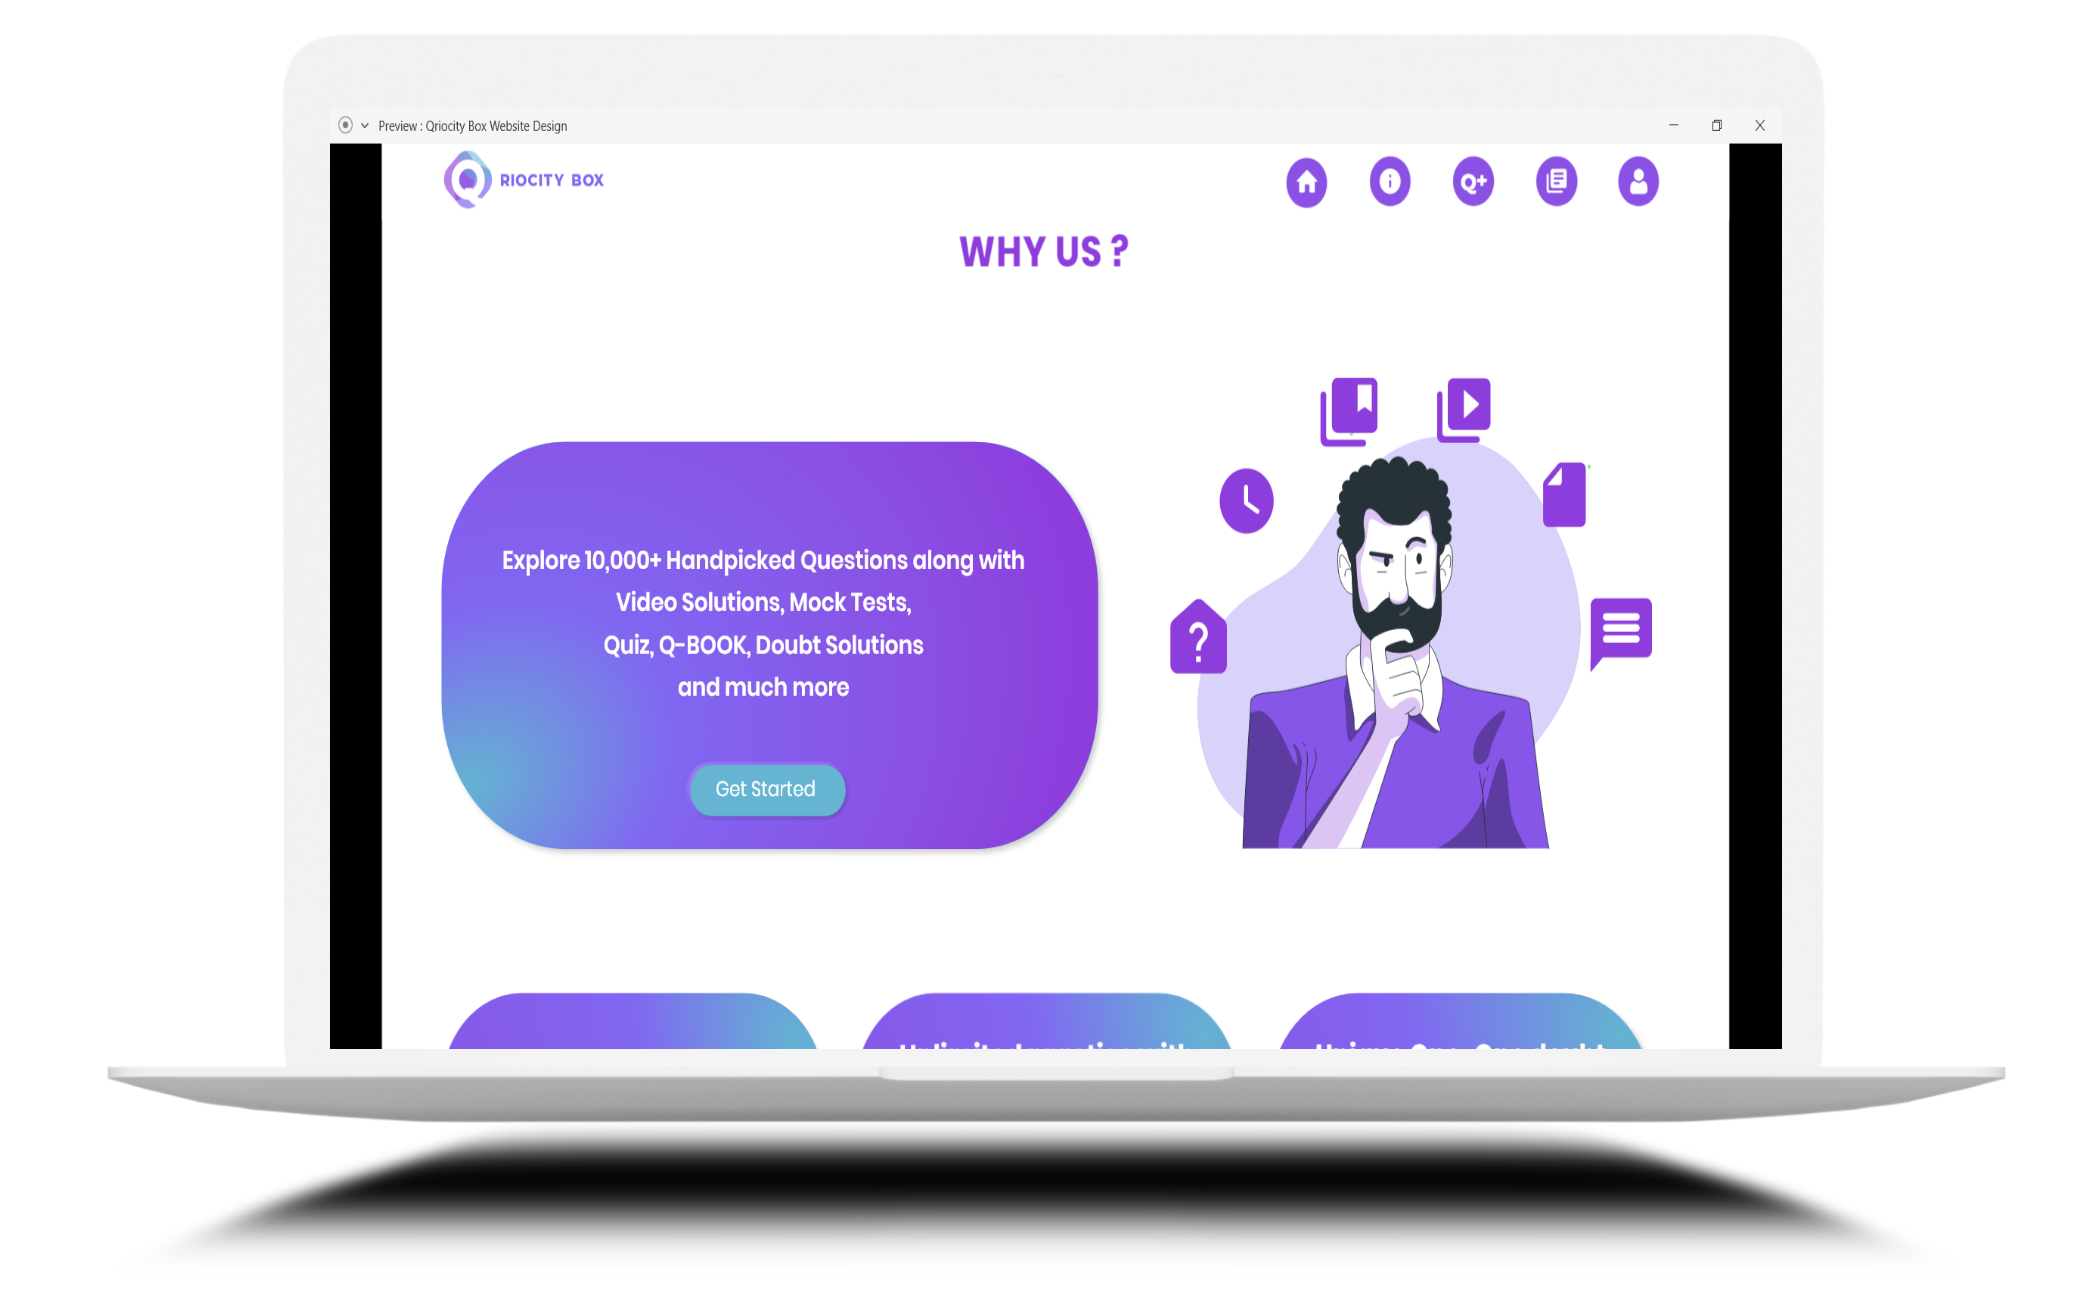
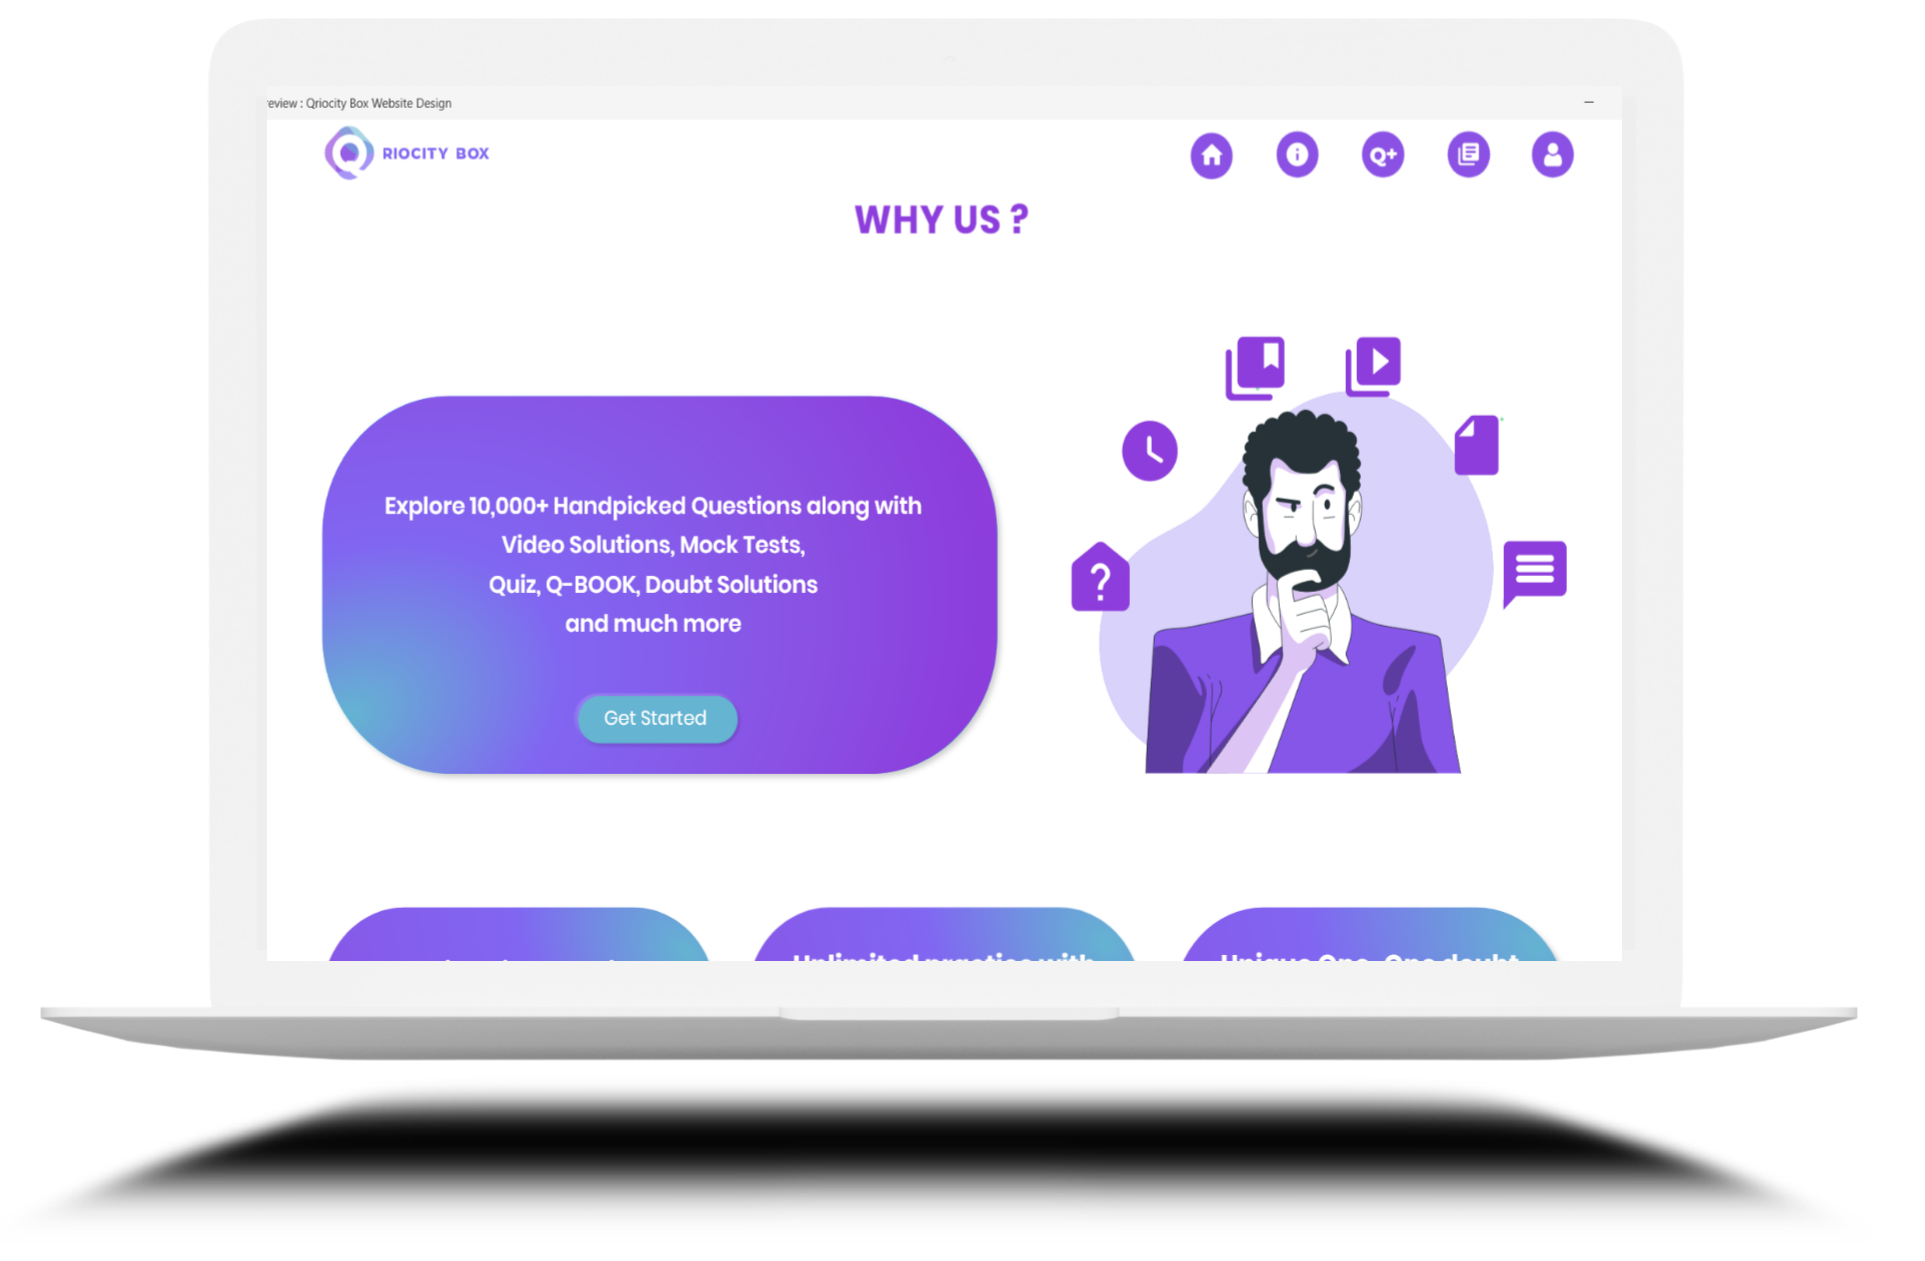
home courses

Changed region(s): [[0.0312, 0.0619, 0.9662, 0.9588], [0.4364, 0.1546, 0.561, 0.2165]]

diff --git a/src/Views/Home.js b/src/Views/Home.js
@@ -733,7 +733,7 @@ const freeCourseSlide = (classes, register) => {
   return (
     <Grid
       style={{
-        padding: `70px ${pxToVw(150)} 140px`,
+        padding: `30px ${pxToVw(150)} 140px`,
       }}
     >
       <CardComponent>
@@ -788,7 +788,7 @@ const available = (sty) => {
       container
       justify="center"
       alignItems="center"
-      style={{ padding: `70px ${pxToVw(150)} 140px` }}
+      style={{ padding: `70px ${pxToVw(150)} 0px` }}
     >
       <Grid item sm={8} lg={8}>
         <div>
@@ -825,7 +825,7 @@ const Courses = (sty) => {
       container
       justify="center"
       alignItems="center"
-      style={{ padding: `70px ${pxToVw(150)} 140px` }}
+      style={{ padding: `70px ${pxToVw(150)} 100px` }}
     >
       <Grid item sm={6} className={sty.d3}>
         <CardComponent>
@@ -994,10 +994,11 @@ const Home = () => {
 
     coursesText(classes),
     Courses(classes),
+    freeCourseSlide(classes),
+
     availableText(classes),
     available(classes),
 
-    freeCourseSlide(classes),
     sixthSlide(classes),
   ];
   return (
